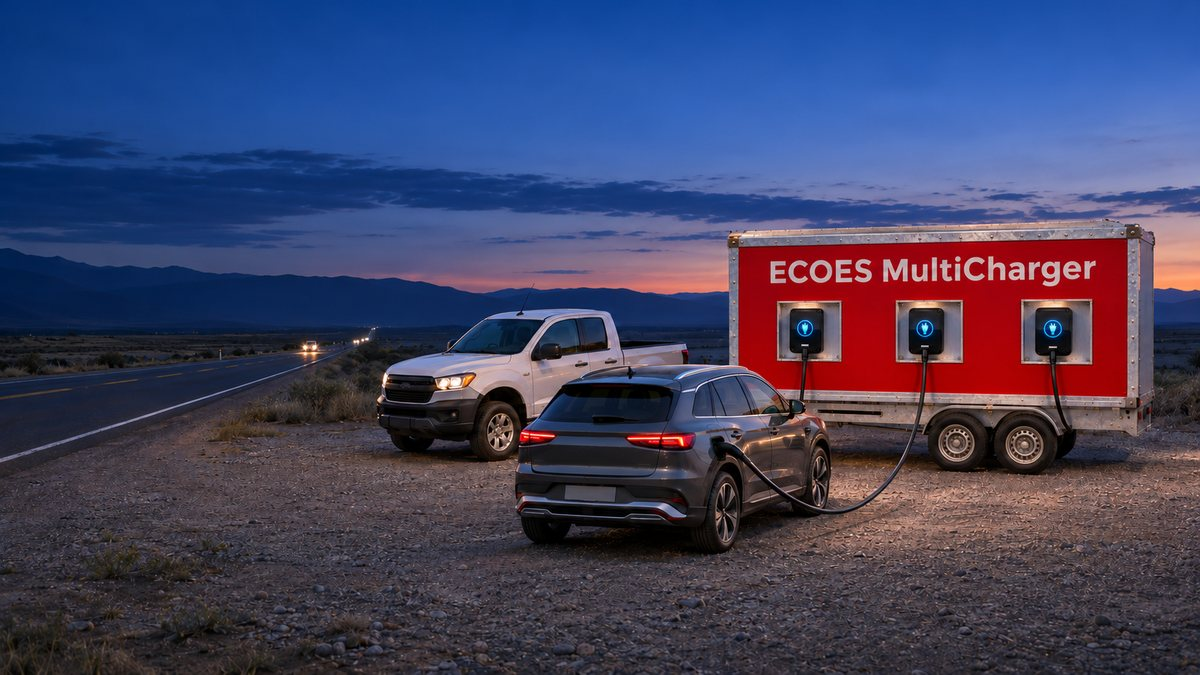
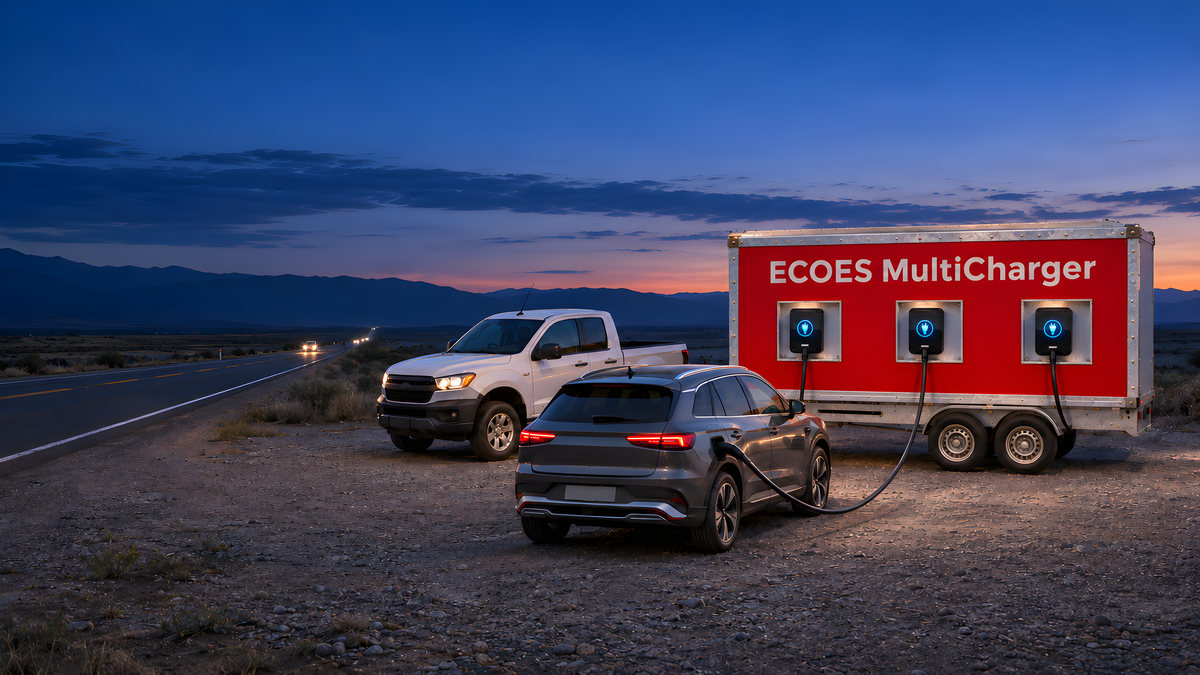
MultiCharger page head: the picture sharpened (Real-ESRGAN 4x)
Client: the quality of the MultiCharger hero picture is not good. The
client's ChatGPT image is 1672 px wide, while the head shows it at about
2.8k device px on sharp screens (and ~3.9k on phones, where only the
middle is shown), so it looked soft.

- Upscaled 4x with Real-ESRGAN x4plus (tools/upscale.py, official
  weights), checked against the original: lettering, three chargers,
  frame and rivets, two axles, the cars; resized to 800/1200/1672/2400/
  3200, WebP + JPEG (4:4:4 so the white lettering stays crisp).
- srcset up to 3200w, sizes "(max-width: 999px) 153vh, 100vw": retina
  laptops and phones now load the 3200 version (before 1672 / 1200).
- Provenance embedded; notes updated.

Claude-Session: https://claude.ai/code/session_01GEpPHxRAoV4DXBRX1UR8qC

diff --git a/bg/multicharger/index.html b/bg/multicharger/index.html
@@ -62,7 +62,7 @@
 <main id="main">
 
   <section class="page-hero page-hero--lead page-hero--multicharger" aria-labelledby="page-title">
-    <picture class="page-hero-media"><source type="image/webp" srcset="../../assets/img/v2/head-multicharger-800.webp 800w, ../../assets/img/v2/head-multicharger-1200.webp 1200w, ../../assets/img/v2/head-multicharger-1672.webp 1672w" sizes="100vw"><img fetchpriority="high" src="../../assets/img/v2/head-multicharger-800.jpg" srcset="../../assets/img/v2/head-multicharger-800.jpg 800w, ../../assets/img/v2/head-multicharger-1200.jpg 1200w, ../../assets/img/v2/head-multicharger-1672.jpg 1672w" sizes="100vw" width="1672" height="941" alt="ECOES MultiCharger на ремарке, теглено от пикап, зарежда електрически автомобил до пуст път по здрач"></picture>
+    <picture class="page-hero-media"><source type="image/webp" srcset="../../assets/img/v2/head-multicharger-800.webp 800w, ../../assets/img/v2/head-multicharger-1200.webp 1200w, ../../assets/img/v2/head-multicharger-1672.webp 1672w, ../../assets/img/v2/head-multicharger-2400.webp 2400w, ../../assets/img/v2/head-multicharger-3200.webp 3200w" sizes="(max-width: 999px) 153vh, 100vw"><img fetchpriority="high" src="../../assets/img/v2/head-multicharger-1200.jpg" srcset="../../assets/img/v2/head-multicharger-800.jpg 800w, ../../assets/img/v2/head-multicharger-1200.jpg 1200w, ../../assets/img/v2/head-multicharger-1672.jpg 1672w, ../../assets/img/v2/head-multicharger-2400.jpg 2400w, ../../assets/img/v2/head-multicharger-3200.jpg 3200w" sizes="(max-width: 999px) 153vh, 100vw" width="1672" height="941" alt="ECOES MultiCharger на ремарке, теглено от пикап, зарежда електрически автомобил до пуст път по здрач"></picture>
     <div class="wrap">
       <div class="glass lead-pane">
         <h1 class="hero-title" id="page-title">

diff --git a/multicharger/index.html b/multicharger/index.html
@@ -62,7 +62,7 @@
 <main id="main">
 
   <section class="page-hero page-hero--lead page-hero--multicharger" aria-labelledby="page-title">
-    <picture class="page-hero-media"><source type="image/webp" srcset="../assets/img/v2/head-multicharger-800.webp 800w, ../assets/img/v2/head-multicharger-1200.webp 1200w, ../assets/img/v2/head-multicharger-1672.webp 1672w" sizes="100vw"><img fetchpriority="high" src="../assets/img/v2/head-multicharger-800.jpg" srcset="../assets/img/v2/head-multicharger-800.jpg 800w, ../assets/img/v2/head-multicharger-1200.jpg 1200w, ../assets/img/v2/head-multicharger-1672.jpg 1672w" sizes="100vw" width="1672" height="941" alt="ECOES MultiCharger on its trailer behind a pickup, charging an electric car beside an empty road at dusk"></picture>
+    <picture class="page-hero-media"><source type="image/webp" srcset="../assets/img/v2/head-multicharger-800.webp 800w, ../assets/img/v2/head-multicharger-1200.webp 1200w, ../assets/img/v2/head-multicharger-1672.webp 1672w, ../assets/img/v2/head-multicharger-2400.webp 2400w, ../assets/img/v2/head-multicharger-3200.webp 3200w" sizes="(max-width: 999px) 153vh, 100vw"><img fetchpriority="high" src="../assets/img/v2/head-multicharger-1200.jpg" srcset="../assets/img/v2/head-multicharger-800.jpg 800w, ../assets/img/v2/head-multicharger-1200.jpg 1200w, ../assets/img/v2/head-multicharger-1672.jpg 1672w, ../assets/img/v2/head-multicharger-2400.jpg 2400w, ../assets/img/v2/head-multicharger-3200.jpg 3200w" sizes="(max-width: 999px) 153vh, 100vw" width="1672" height="941" alt="ECOES MultiCharger on its trailer behind a pickup, charging an electric car beside an empty road at dusk"></picture>
     <div class="wrap">
       <div class="glass lead-pane">
         <h1 class="hero-title" id="page-title">

diff --git a/CLAUDE.md b/CLAUDE.md
@@ -58,7 +58,7 @@ History: v1 (2026-11-03 morning, the impeccable roll's "special-equipment body":
 - Product truth first: the MultiCharger and the Box must stay exactly as designed (pre-orders are taken from these pictures, the design is registered); check hatches, chargers, lettering, frame, axles before using a returned image. Fallback: upscale the original (Upscayl) instead of regenerating; best: renders from the CAD model, if the client has one.
 - Processing when images arrive: see the header of `tools/image-kit.md` (cut-outs with `tools/cutout.py`, hero sizes 800–2400, rebuild `amb-beach` and `og-image.jpg` from the new hero, provenance with `impeccable embed-prompt`).
 - Asked: the original zip of photos mentioned in the visualisation (maybe higher resolution than the PDF).
-- Received 2026-11-03 (`ECOES-7-photos.zip`, 7 PNGs, hero and heads 1672 × 941, products ~1700–2060 px) and placed: hero `assets/img/home/hero-bluehour-{800,1200,1672}` (blue hour), products `assets/img/v2/cut-{container,multicharger,box}-*.webp` (cut out; the trailer with `--floor=836:110` so the wide grey ground shadow fades), page heads `assets/img/v2/head-{multicharger,box}-*` (`head-franchise-*` removed 2026-11-04: that head is the network globe now) (the MultiCharger head had a stray orange speck by the dot of the i, which read as "MultíCharger": retouched by hand), `amb-hero-*` (the Contact head, blurred from the new hero), `og-image.jpg` from the new hero. Checked: lettering, three chargers, Box hatches, two axles; no brand badges. Page heads frame per page: `.page-hero--multicharger/--box` object-position.
+- Received 2026-11-03 (`ECOES-7-photos.zip`, 7 PNGs, hero and heads 1672 × 941, products ~1700–2060 px) and placed: hero `assets/img/home/hero-bluehour-{800,1200,1672}` (blue hour), products `assets/img/v2/cut-{container,multicharger,box}-*.webp` (cut out; the trailer with `--floor=836:110` so the wide grey ground shadow fades), page heads `assets/img/v2/head-{multicharger,box}-*` (`head-franchise-*` removed 2026-11-04: that head is the network globe now) (the MultiCharger head had a stray orange speck by the dot of the i, which read as "MultíCharger": retouched by hand); the MultiCharger head was then upscaled 4x with Real-ESRGAN x4plus (`tools/upscale.py`, client 2026-11-04: "the quality of the hero image is not good"; ChatGPT gives at most about 1.7k px, the head is shown up to about 2.8k device px on sharp screens) and published at 800/1200/1672/2400/3200 (JPEG 4:4:4, so the lettering on the red body stays crisp), `sizes="(max-width: 999px) 153vh, 100vw"` because phones show the middle of the picture at the head's height. Use the same for any other picture that looks soft, `amb-hero-*` (the Contact head, blurred from the new hero), `og-image.jpg` from the new hero. Checked: lettering, three chargers, Box hatches, two axles; no brand badges. Page heads frame per page: `.page-hero--multicharger/--box` object-position.
 
 ## Content notes
 - ECOES Franchise page: the visualisation's headings are English inside the Bulgarian text ("WHAT IS AN ECOES Franchise & WHY ECOES Franchise", "I. WHAT IS…", "II. WHY…"); the BG page uses "I. Какво е ECOES Franchise" / "II. Защо ECOES Franchise" (reported, offered to keep English). The combined title is shown as the two section links in the page head; the kicker "ПЛАТФОРМА ЗА МОБИЛНА ЗАРЯДНА ИНФРАСТРУКТУРА" is the h1 with the name. Fixed "3- портова" → "3-портова" (reported). Asked: "патентно защитен в … (EUIPO)" – EUIPO registers designs and trade marks, not patents (as on ecoes.eu). Colons after the bold item labels dropped where the label became the item title.
